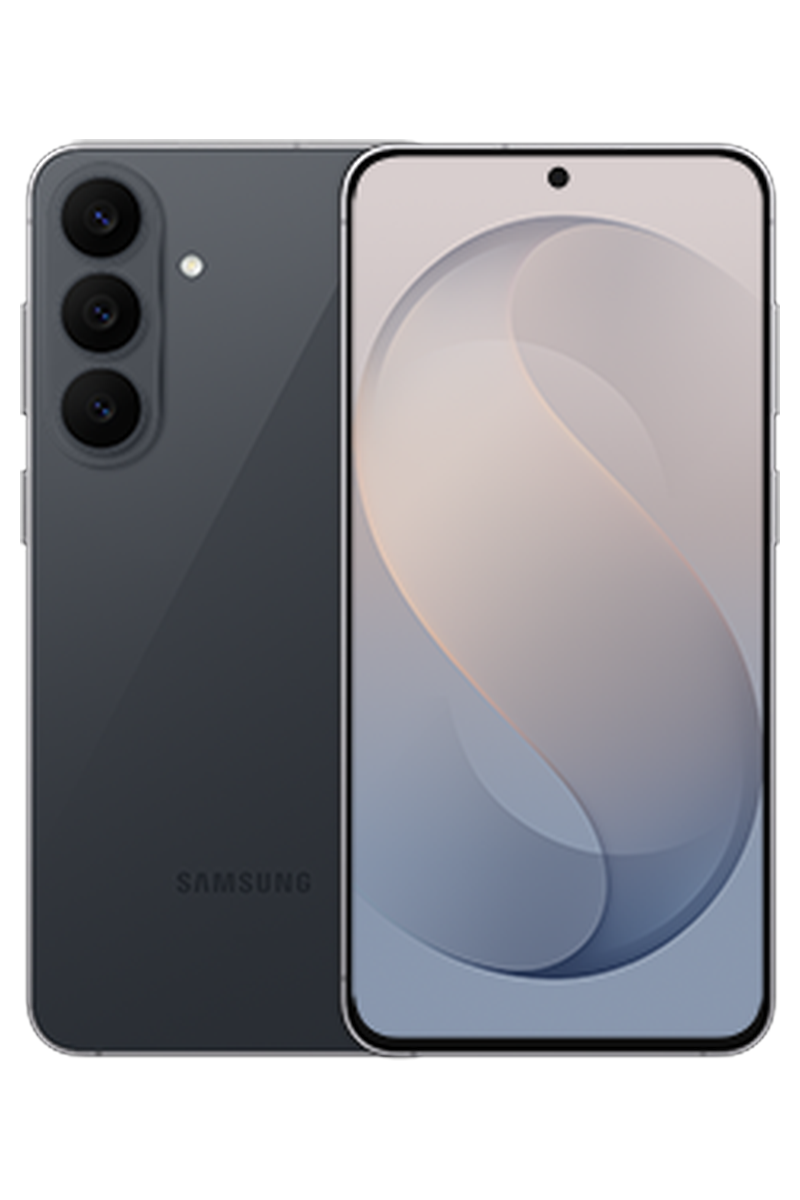
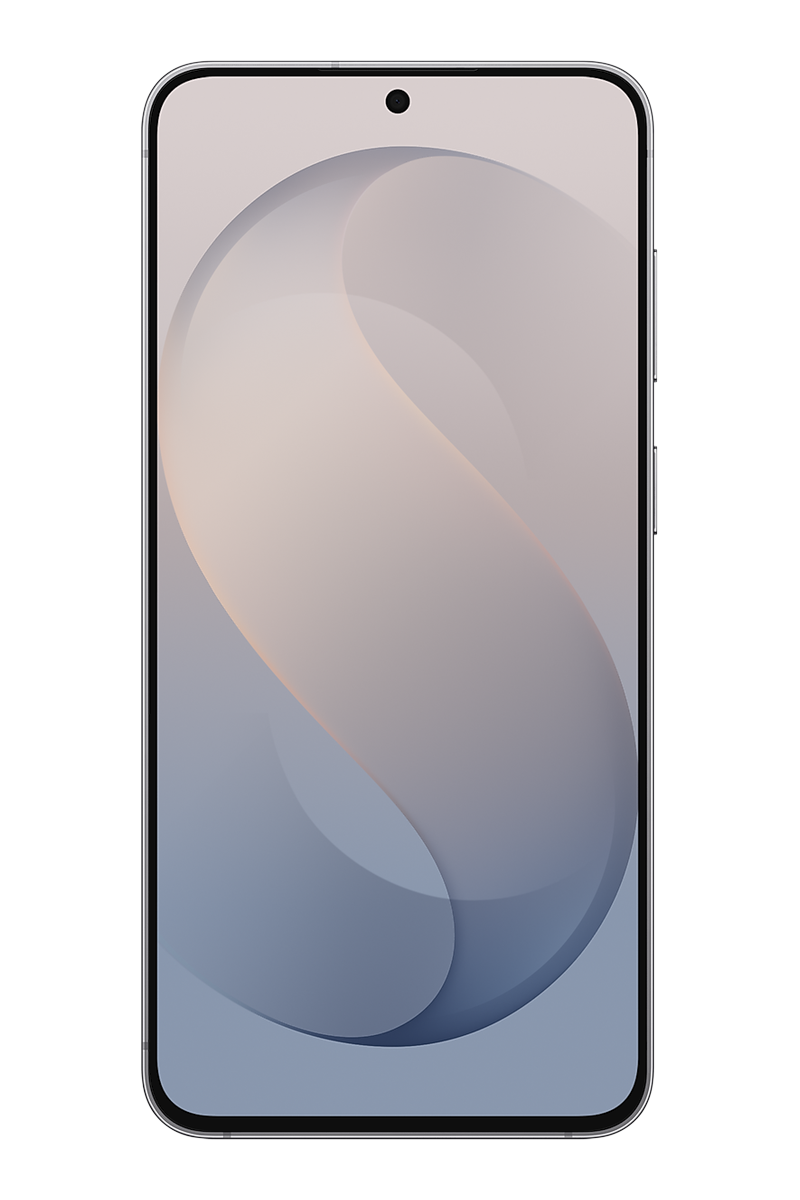
Galaxy S26 FE: zdjęcia z galerii Samsunga jak przy innych telefonach
Na kafelku sam przód (800 × 1200, ten sam rozmiar co S25 FE), na karcie
także tył oraz przód z tyłem. Źródło: galeria samsung.com/us (SM-S741UZKAXAA).

diff --git a/app/produkt/samsung-s26-fe/page.tsx b/app/produkt/samsung-s26-fe/page.tsx
@@ -11,7 +11,8 @@ const data: ProductData = {
   name: 'Samsung Galaxy S26 FE',
   category: 'Telefony',
   categoryHref: '/kategoria/telefony',
-  images: ['/s26fe_1.png'],
+  // zdjęcia z galerii samsung.com/us (SM-S741UZKAXAA, grafitowy), docięte do 800 × 1200 jak S25 FE
+  images: ['/s26fe_1.png', '/s26fe_2.png', '/s26fe_3.png'],
   inquiry: {
     description: 'Flagowe funkcje w przystępniejszej cenie',
     specifications: 'Android 17 · 6,7″ FHD+ AMOLED 120 Hz · Exynos 2500 · 8/256 GB · 4900 mAh · IP68',
